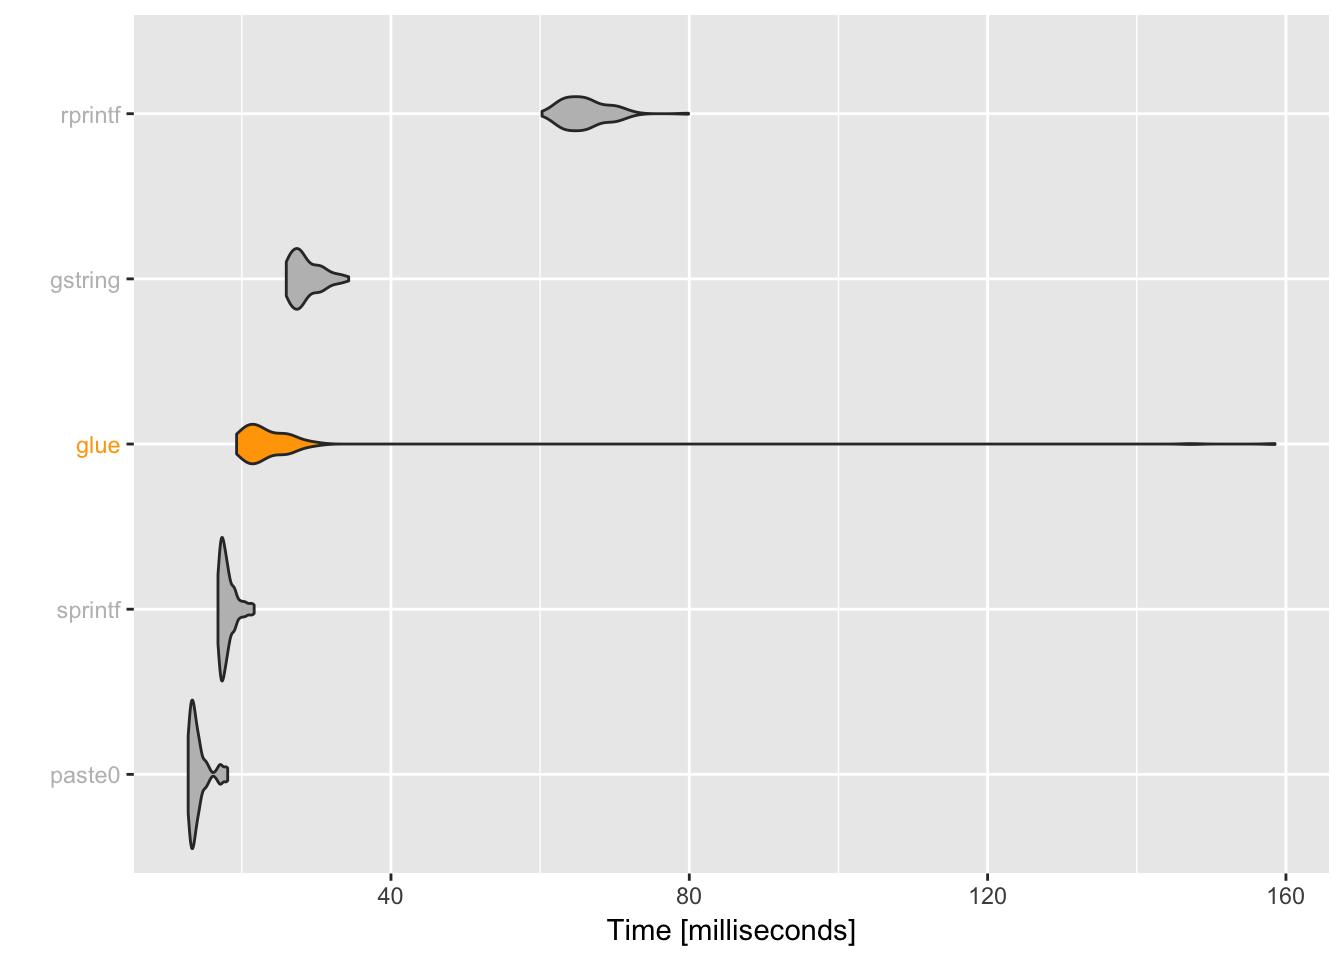
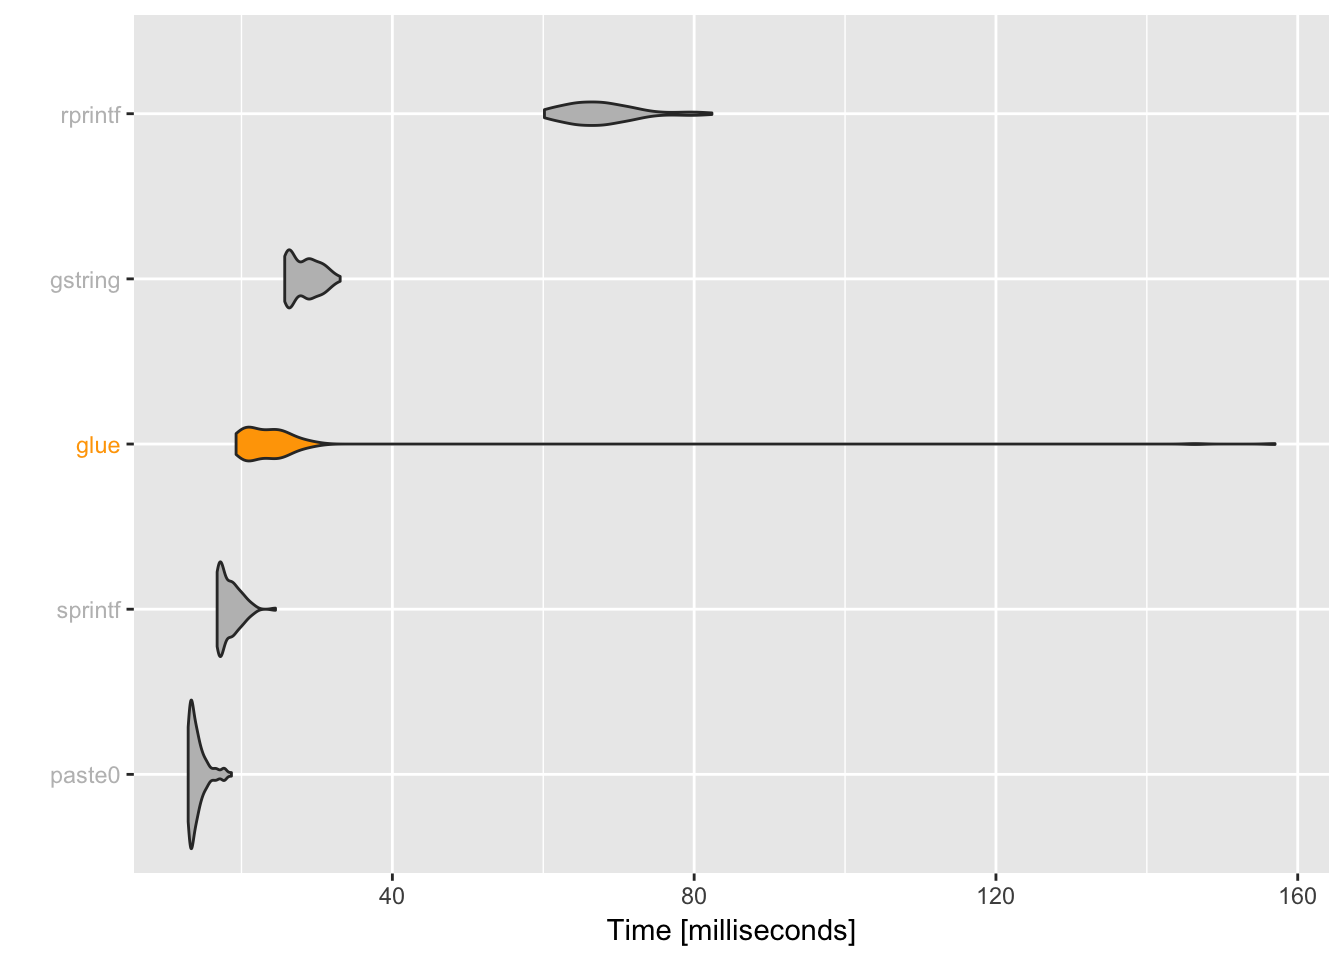
Add footnote about pystr not being available on CRAN.
Thanks @jennybc

diff --git a/docs/articles/speed.html b/docs/articles/speed.html
@@ -80,7 +80,7 @@
       <h1>Speed of glue</h1>
                         <h4 class="author">Jim Hester</h4>
             
-            <h4 class="date">2017-10-26</h4>
+            <h4 class="date">2017-10-27</h4>
           </div>
 
     
@@ -98,7 +98,7 @@
 <li>
 <code><a href="http://www.rdocumentation.org/packages/R.utils/topics/gstring">R.utils::gstring()</a></code>, <code>stringr::str_inperp()</code> - Provides a similar interface as glue, but using <code>${}</code> to delimit blocks to interpolate.</li>
 <li>
-<code><a href="http://www.rdocumentation.org/packages/pystr/topics/pystr_format">pystr::pystr_format()</a></code>, <code><a href="http://www.rdocumentation.org/packages/rprintf/topics/rprintf">rprintf::rprintf()</a></code> - Provide a interfaces similar to python string formatters with variable replacement, but not arbitrary interpolation.</li>
+<code><a href="http://www.rdocumentation.org/packages/pystr/topics/pystr_format">pystr::pystr_format()</a></code><a href="#fn1" class="footnoteRef" id="fnref1"><sup>1</sup></a>, <code><a href="http://www.rdocumentation.org/packages/rprintf/topics/rprintf">rprintf::rprintf()</a></code> - Provide a interfaces similar to python string formatters with variable replacement, but not arbitrary interpolation.</li>
 </ul>
 <div id="simple-concatenation" class="section level2">
 <h2 class="hasAnchor">
@@ -120,13 +120,13 @@ simple &lt;-
 <div class="output">
 <pre class="knitr r">#&gt; Unit: evaluations per second
 #&gt;          expr       min     lq       mean median     uq     max neval cld
-#&gt;       rprintf 2.883e+02   1900   1951.058   1968   2115    2248   100 a  
-#&gt;       gstring 6.382e+00   2397   2447.315   2493   2688    2854   100 a  
-#&gt;    str_interp 9.663e+01   3272   3297.847   3389   3583    3883   100 a  
-#&gt;          glue 3.594e+02   6314   6446.931   6619   7025    7936   100 a  
-#&gt;  pystr_format 6.158e+01  18670  20068.661  20040  21560   27880   100 a  
-#&gt;        paste0 1.229e+05 393000 468145.291 463100 513700  935500   100  b 
-#&gt;       sprintf 2.580e+05 416100 538725.585 465800 613500 1230000   100   c
+#&gt;       rprintf    148.00   1850   1902.831   1937   2062    2228   100 a  
+#&gt;       gstring      5.87   2339   2365.255   2491   2627    2933   100 a  
+#&gt;    str_interp     85.07   3171   3223.143   3284   3464    3993   100 a  
+#&gt;          glue    435.30   6280   6509.552   6575   6972    8138   100 a  
+#&gt;  pystr_format     58.92  18600  19349.724  19500  20850   26320   100 a  
+#&gt;        paste0 179800.00 381700 450772.453 449100 499800  978500   100  b 
+#&gt;       sprintf 212700.00 437600 579980.307 492000 612200 1767000   100   c
 </pre>
 </div>
 <div class="sourceCode"><pre class="sourceCode r"><code class="sourceCode r">
@@ -157,16 +157,22 @@ vectorized &lt;-
 <div class="output">
 <pre class="knitr r">#&gt; Unit: milliseconds
 #&gt;     expr   min    lq     mean median    uq    max neval  cld
-#&gt;   paste0 12.81 13.24 14.12517  13.65 14.41  18.11   100 a   
-#&gt;  sprintf 16.81 17.24 18.08383  17.76 18.51  21.66   100  b  
-#&gt;     glue 19.30 21.00 25.71188  22.55 25.74 158.50   100   c 
-#&gt;  gstring 25.96 27.02 28.57572  27.96 30.14  34.33   100   c 
-#&gt;  rprintf 60.26 63.50 66.00858  65.56 67.78  79.89   100    d
+#&gt;   paste0 12.93 13.30 14.15082  13.75 14.57  18.67   100 a   
+#&gt;  sprintf 16.77 17.17 18.35378  18.03 19.21  24.51   100  b  
+#&gt;     glue 19.28 20.84 25.85976  23.16 25.42 157.00   100   c 
+#&gt;  gstring 25.73 26.33 28.31059  28.34 29.91  33.08   100   c 
+#&gt;  rprintf 60.16 64.21 67.66198  67.23 70.13  82.35   100    d
 </pre>
 </div>
 <div class="sourceCode"><pre class="sourceCode r"><code class="sourceCode r">
 <span class="kw">plot_comparison</span>(vectorized, <span class="dt">log =</span> <span class="ot">FALSE</span>)</code></pre></div>
 <p><img src="speed_files/figure-html/unnamed-chunk-2-1.png" width="672"></p>
+</div>
+<div class="footnotes">
+<hr>
+<ol>
+<li id="fn1"><p>pystr has been removed from CRAN due to failure to correct installation errors.<a href="#fnref1">↩</a></p></li>
+</ol>
 </div>
 </div>
   </div>

diff --git a/docs/articles/transformers.html b/docs/articles/transformers.html
@@ -80,7 +80,7 @@
       <h1>Transformers</h1>
                         <h4 class="author">Jim Hester</h4>
             
-            <h4 class="date">2017-10-26</h4>
+            <h4 class="date">2017-10-27</h4>
           </div>
 
     
